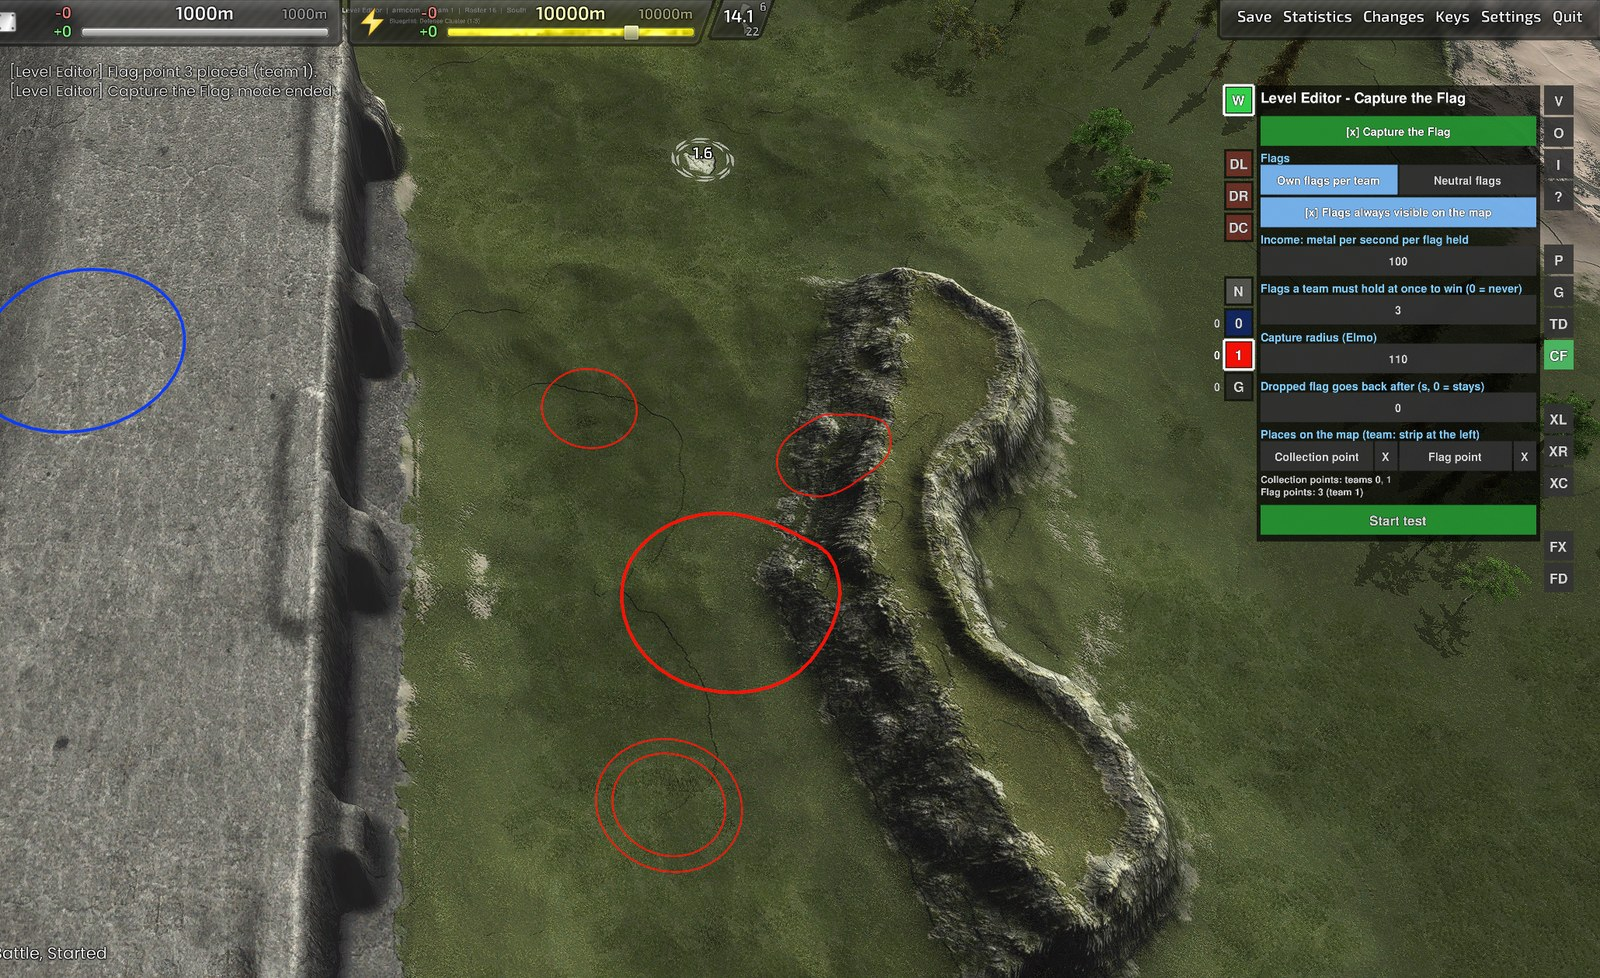
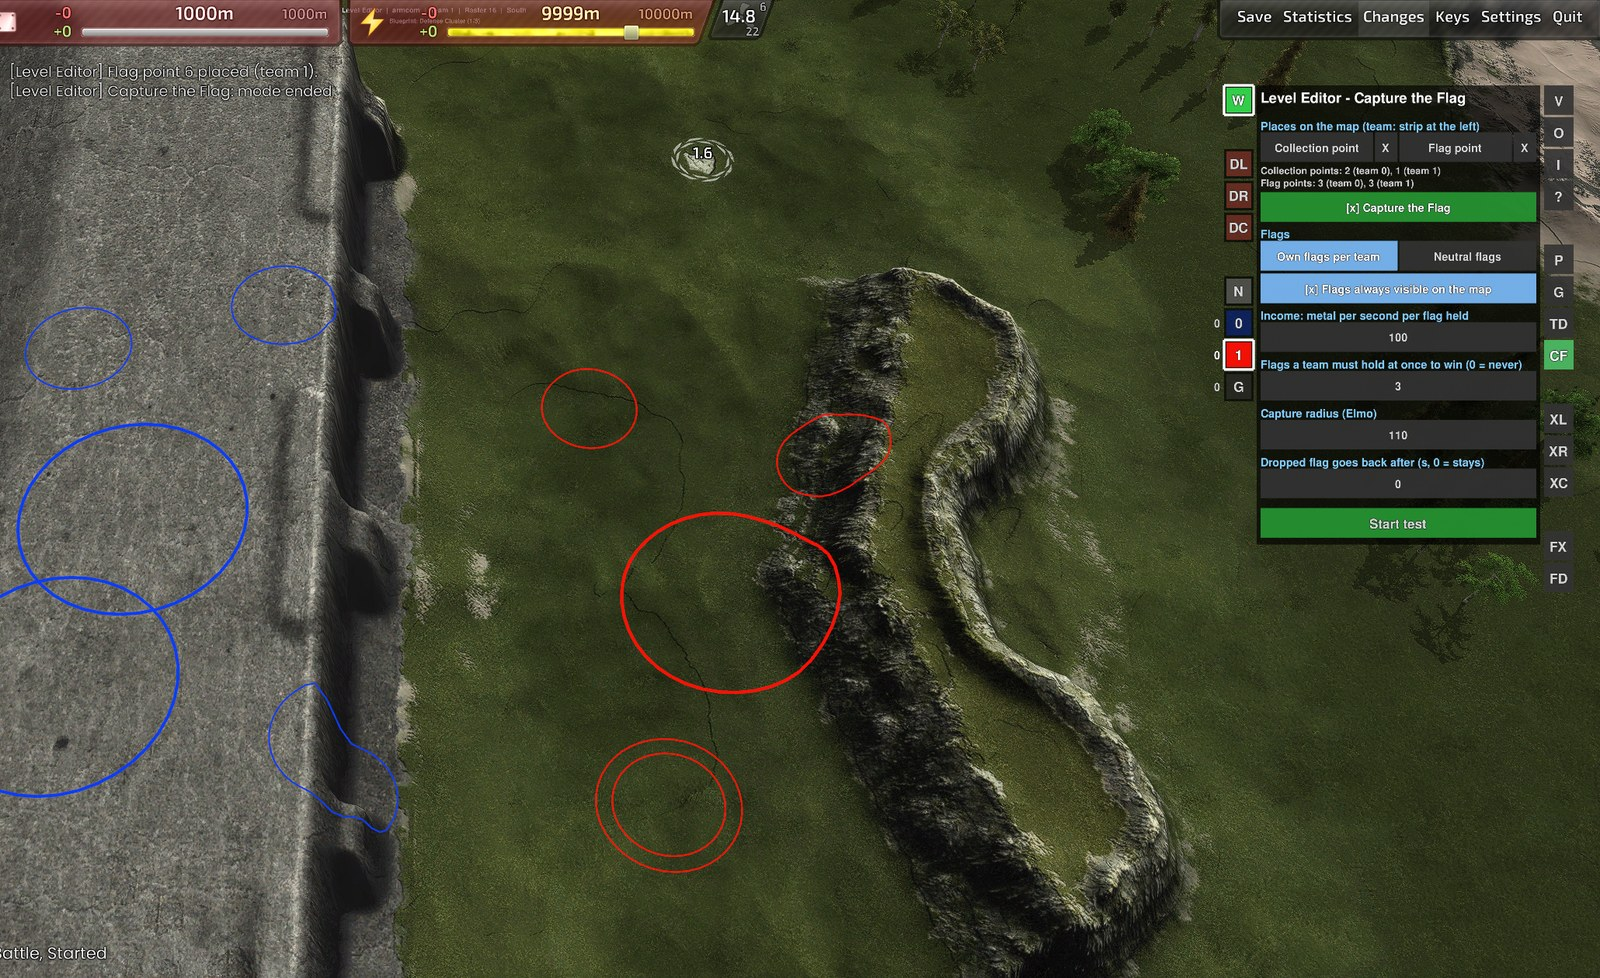
Capture the Flag: any number of collection points per team (a flag counts at any of them) and the buttons for the collection and flag points at the very top of the page; new screenshot

diff --git a/LevelEditor/SPECIFICATION.md b/LevelEditor/SPECIFICATION.md
@@ -208,8 +208,8 @@ Flags lie at flag points; units pick them up, carry them to the collection point
 
 - **Widget part:** `led_ctf.lua` is a Lua file that returns a function; the widget loads it (`VFS.Include("luaui/Include/led_ctf.lua")`, packed by `install_editor.ps1`) and calls it with a `host` table (the services of the widget: `Shared`, `S()`, `say`, `canEdit`, `team()`, `serialize` (= `td.lua`), `disarm` (ends the other modes), `beforePlay` / `afterPlay` (save and restore `_beforeplay`)). It returns the page `ctf` (the widget keeps only one local variable for it; the file is at the limit of 200 locals): `ctf.layout(rect)` (buttons, labels, height, also `DebugLayout`'s eighth value), `ctf.draw`, `ctf.press`, `ctf.key`, `ctf.text`, `ctf.click(x, z)` (left click on the map in the pick mode `ctf.pick` = "home" | "flag"), `ctf.cancel`, `ctf.deleteAt` (Del), `ctf.grab` / `ctf.sample` / `ctf.endDrag` (Alt + drag moves a point (like units and features; also with the page closed)), `ctf.state` / `ctf.applyState` / `ctf.commit` / `ctf.poll` (undo, see below), `ctf.pointAt`, `ctf.drawWorld` (rings), `ctf.toggle` (test), `ctf.payload`. The widget hooks are the same places as for `td`: header button (`kind = "ctf"`, `sideTop(9)`, the area attacks and FX / FD moved down one slot), size of the panel, title ("Level Editor - Capture the Flag"), drawing, press, map click and right click, text and key input, Del, mouse wheel, world drawing, pick mode ended when another mode starts, save and load of the level.
 - **Exclusive with Tower Defense:** ticking `ctfon` calls `host.excludeTd()`, ticking `tdon` sets `ctf.data.enabled = false` (with a message); both can be off.
-- **Data:** own section `capture` of the level file (written by `saveLevel` through `td.lua`, read by `load_level` into `ctf.data`): `enabled`, `mode` ("own" | "neutral"), `amount` (metal, 0 to 99999), `score` (flags to win, 0 to 99, 0 = never), `radius` (Elmo, 10 to 2000), `returnTime` (seconds, 0 to 3600, default 0 = the dropped flag stays), `visible` (boolean, default true), `homes` (`{ team, x, z }`, one per team: a new one replaces it), `flags` (`{ team, x, z }`, team -1 = neutral; with mode "own" the team chosen in the strip).
-- **Page, top to bottom:** checkbox `ctfon`; Flags: `ctfmode` own | neutral; the box `ctfvisible`; Income: the field `amount`; fields `score`, `radius`, `returnTime` (`ctfedit`: click, type digits, Enter accepts, Esc cancels, limits as above); Places: `ctfhome` + X, `ctfflag` + X; two lines of what is placed; at the bottom `ctfplay`.
+- **Data:** own section `capture` of the level file (written by `saveLevel` through `td.lua`, read by `load_level` into `ctf.data`): `enabled`, `mode` ("own" | "neutral"), `amount` (metal, 0 to 99999), `score` (flags to win, 0 to 99, 0 = never), `radius` (Elmo, 10 to 2000), `returnTime` (seconds, 0 to 3600, default 0 = the dropped flag stays), `visible` (boolean, default true), `homes` (`{ team, x, z }`, as many as you like per team), `flags` (`{ team, x, z }`, team -1 = neutral; with mode "own" the team chosen in the strip).
+- **Page, top to bottom:** Places: `ctfhome` + X, `ctfflag` + X and two lines of what is placed (at the very top); checkbox `ctfon`; Flags: `ctfmode` own | neutral; the box `ctfvisible`; Income: the field `amount`; fields `score`, `radius`, `returnTime` (`ctfedit`: click, type digits, Enter accepts, Esc cancels, limits as above); at the bottom `ctfplay`.
 - **Gadget:** payload `mode;amount;radius;score;returnTime;homes;flags;visible` (homes and flags as `team,x,z/team,x,z`; visible "1" or "0"), by message `ctf|start|...` (`ctf|stop`; only with cheats or in editor mode) or the game option `ctfconfig` (base64url, decoded by `decode64` of `bar_rules.lua`; the game starts at frame 30). Flags are real units (`lootboxsilver`, the silver pod of the scavengers), collection points are `lootboxnano_t1_var1`, both created neutral, with no selection, always visible (`Spring.SetUnitAlwaysVisible`, flags only when the option `visible` is on: checked with the global line of sight off, four flags in the corners, two in sight of the player's units: with the option off only those two are seen, with it on all four), indestructible (the gadget has its own protection: no damage, no reclaim, capture or self destruction) and with the unit rules parameter `tdwave` (so the editor does not save them) and frozen with `Spring.MoveCtrl.Enable` (the pod is a drifting unit with the speed 0.03, which would be its only movement); in mode "own" a flag belongs to a team (created for that team: its color), otherwise it is created for the Gaia team. Every 5 frames: a flag that nobody carries is taken by the first mobile unit (not a building, not a Gaia unit, not a unit being destroyed) within the radius; in mode "own" only by a unit of another ally team, a unit of the owner's ally team brings a dropped flag home. A carried flag follows its carrier every frame (`SetUnitPosition` to the position plus one frame of the carrier's speed: measured with the view positions in the game, one frame halves the lag, more makes it worse; the rest is the interpolation of the drawing; air units and units in a transporter work, the position of a loaded unit is the one of its transporter). A carrier within the radius of the collection point of its own team delivers: *once* = `AddTeamResource(team, "metal", amount)` and the flag goes back to its flag point; *income* = the flag stays at the collection point and every second every team gets `amount` times the number of flags it holds. **Carrier:** while a unit carries a flag its weapons have the range 0 (`disarm` saves the ranges in the flag record, `rearm` puts them back on delivery or when the game stops). A destroyed carrier (`UnitDestroyed`) leaves the flag where the carrier died (`f.dropped`); it goes back to its flag point after `returnTime` seconds only when that is above 0. **Lost team:** with mode "own", when all flags of a team are parked (`f.parked`) at collection points, `eliminate(team)` blows up all its units (`Spring.DestroyUnit(id, true)`, not the flags and collection points) and every 30 frames what the team built since; when only one team of the collection points is left it wins ("last one standing"). With reward "once" the flags always return, so no team is lost that way. A team with `score` delivered flags wins (`Spring.GameOver` of its ally team in a finished scenario, only a message in the editor).
 - **Undo of the points:** like the route of Tower Defense: `ctf.state()` writes collection points and flag points as text ("t,x,z/t,x,z;t,x,z/..."; "-" for none), every change (`ctf.commit(before)`: click, Del, X buttons, end of a drag) sends `led|step` and `led|ctfpts|before|after`; the editor gadget records the op `ctfpts` (with the unit steps, so Ctrl+Z / Ctrl+Y keep the order) and hands the state of an undo or redo back through the game rules parameters `led_ctfpts` / `led_ctfpts_n`, which `ctf.poll()` reads every frame. The settings (buttons, fields) are not part of the undo.
 - **Minimap:** the pods get `Spring.SetUnitNoMinimap` (no engine icon); the unsynced part draws a square per flag in the color of its owner (light grey: neutral) and a ring of the capture radius around every collection point over the minimap (`drawMiniMap`, from `DrawScreenPost` with `Spring.GetMiniMapGeometry`: BAR's minimap does not call `DrawInMiniMap` of gadgets, and `DrawScreen` comes before the minimap). The flag ids come in `ctfFlagIds` ("id:owner,..."); with the option `visible` off a flag is only drawn when `GetUnitLosState` says los or radar (spectators see all). Checked in the game with fog: four flags in the corners, with the option on all four, off only the two next to the player's units.

diff --git a/LevelEditor/README.md b/LevelEditor/README.md
@@ -102,7 +102,7 @@ The button **CF** (in the button column at the right, below **TD**) opens the Ca
 - **Flags always visible on the map** (box, on by default): the flags are shown on the whole map and the minimap, also without radar or a unit nearby. Off: only what a unit sees. On the minimap every flag is a small square in the color of its team (light grey = neutral) and every collection point has a ring in its team color.
 - **Income (metal per second):** every flag that lies at the collection point of a team pays that team the amount every second (click the field, type a number, Enter). A flag that is carried or was stolen pays nothing, there is no one-time reward and no experience. A delivered flag stays at the collection point; units of other teams can steal it from there, it does not jump back to its flag point.
 - **Flags a team must hold at once to win** (0 = the level never ends), **capture radius** in Elmo (pick up, deliver and bring back) and the time after which a **dropped flag** goes back to its flag point (0 = the default: it stays where the carrier was destroyed until a unit takes it). **The unit that carries a flag cannot shoot** (its weapons are switched off until it delivers or dies).
-- **Places on the map:** choose the team in the strip at the left, then **Collection point** (click the place on the map; one per team, a new one replaces it) and **Flag point** (every click adds one; with *Own flags* the flag belongs to the chosen team, so place the flags of a team in its own area and neutral flags in the middle). Right click ends the mode, **Del** over a point removes it, **Alt + drag** moves a point (the point under the mouse gets a second ring), **Ctrl+Z / Ctrl+Y** undo and redo every change of the points, the **X** buttons delete the collection point of the chosen team or all flag points (with *Own flags*: those of the chosen team). The rings show the radius: thick = collection point, thin = flag point, in the color of the team (white = neutral).
+- **Places on the map:** choose the team in the strip at the left, then **Collection point** (click the places on the map; as many as you like per team, a flag counts when it lies at any of them) and **Flag point** (every click adds one; with *Own flags* the flag belongs to the chosen team, so place the flags of a team in its own area and neutral flags in the middle). Right click ends the mode, **Del** over a point removes it, **Alt + drag** moves a point (the point under the mouse gets a second ring), **Ctrl+Z / Ctrl+Y** undo and redo every change of the points, the **X** buttons delete the collection point of the chosen team or all flag points (with *Own flags*: those of the chosen team). The rings show the radius: thick = collection point, thin = flag point, in the color of the team (white = neutral).
 - A team's own units can bring a dropped flag of their team back by touching it. **Own flags:** a team whose flags all stay at the collection points of the others has lost: all its units blow up (and what it builds later), the last team standing wins. A unit carries one flag at a time; air units and units in a transporter can carry a flag too; if the carrier is destroyed (own or enemy) the flag is dropped there and lies there until somebody takes it (or the return time is over).
 - **Start test** (green button at the bottom of the page) runs the game in the editor, **Stop** brings the level back to the state before (saved as `_beforeplay` first). The score of every team is shown at the top of the screen. The flags and the collection points are neutral, indestructible units of the game (the editor does not save them).
 - The game runs in the gadget `ctf_game.lua`. **In a scenario package** (start menu key 3) a level with Capture the Flag switched on is packed with its settings (see `scenario\README.md`). A level can have Tower Defense **and** Capture the Flag: the package then holds both and the player chooses at the start which one to play; the other mode is left out (the corridors of Tower Defense disappear when Capture the Flag is chosen).

diff --git a/docs/screenshots.md b/docs/screenshots.md
@@ -15,7 +15,7 @@ Notes on what each picture shows, so they can be retaken after a change of the l
 | `level-editor-generate-units.jpg` | Generate, sub-tab Units with Units and Turrets switched on, count 100, area Rectangle. The result of a dragged rectangle: about 100 Armada units and turrets in the area (message about free space). |
 | `level-editor-generate-maze.jpg` | Generate, sub-tab Maze, material Walls, corridor width 64. A maze built in a dragged rectangle (top-down view). |
 | `level-editor-tower-defense.jpg` | Tower Defense page: Tower Defense on (green), corridor of walls (Line, 128 Elmo) drawn with a bend, spawn point (green circle), three waypoints and the goal (red circle) with the yellow route line, three waves, Restrictions with Economy and Fog of war on, tower list (Armada, Towers, T1), a few towers placed, the pointer on the Ferret tile (3D preview, info). |
-| `level-editor-capture-the-flag.jpg` | Capture the Flag page: on, Own flags per team, income 100 metal, 3 flags to hold, radius 110, two teams with a collection point each (thick rings) and three flag points each (thin rings, team colors); the pointer rests on a flag point (second ring). |
+| `level-editor-capture-the-flag.jpg` | Capture the Flag page: on, Own flags per team, income 100 metal, 3 flags to hold, radius 110, team 0 with two collection points and team 1 with one (thick rings) and three flag points each (thin rings, team colors); the pointer rests on a flag point (second ring). |
 | `level-editor-scenario.jpg` | Scenario page (button I) of a level with a battle: title "Hold the Plateau", roles, tech, AI, win condition, start resources, grace period 2:30, ID; the map shows the plateau and the Cortex base. |
 
 The BluePrinter pictures (`blueprinter-blueprints.jpg`, `blueprinter-buildings.jpg`, `area-attack.jpg`) show the BluePrinter in a normal game and were not retaken (its layout did not change).

diff --git a/README.md b/README.md
@@ -67,7 +67,7 @@ All buttons are in the **button column at the right edge** (V, O, I, ?, P, G, TD
 - **Save and load** levels with Ctrl+S, autosave when you leave.
 - **Scenario builder:** turns a level into a ZIP with a start script, briefing, AI opponents and win condition that others play with their own BAR.
 - **Tower Defense:** walls that guide waves of enemies along a route, rules for what the player may build, a test run in the editor, and export as a scenario.
-- **Capture the Flag:** flag points, a collection point per team and a reward in metal, for human against human.
+- **Capture the Flag:** flag points, collection points for every team and an income in metal, for human against human.
 
 | Blueprints | Generate: units |
 |---|---|
